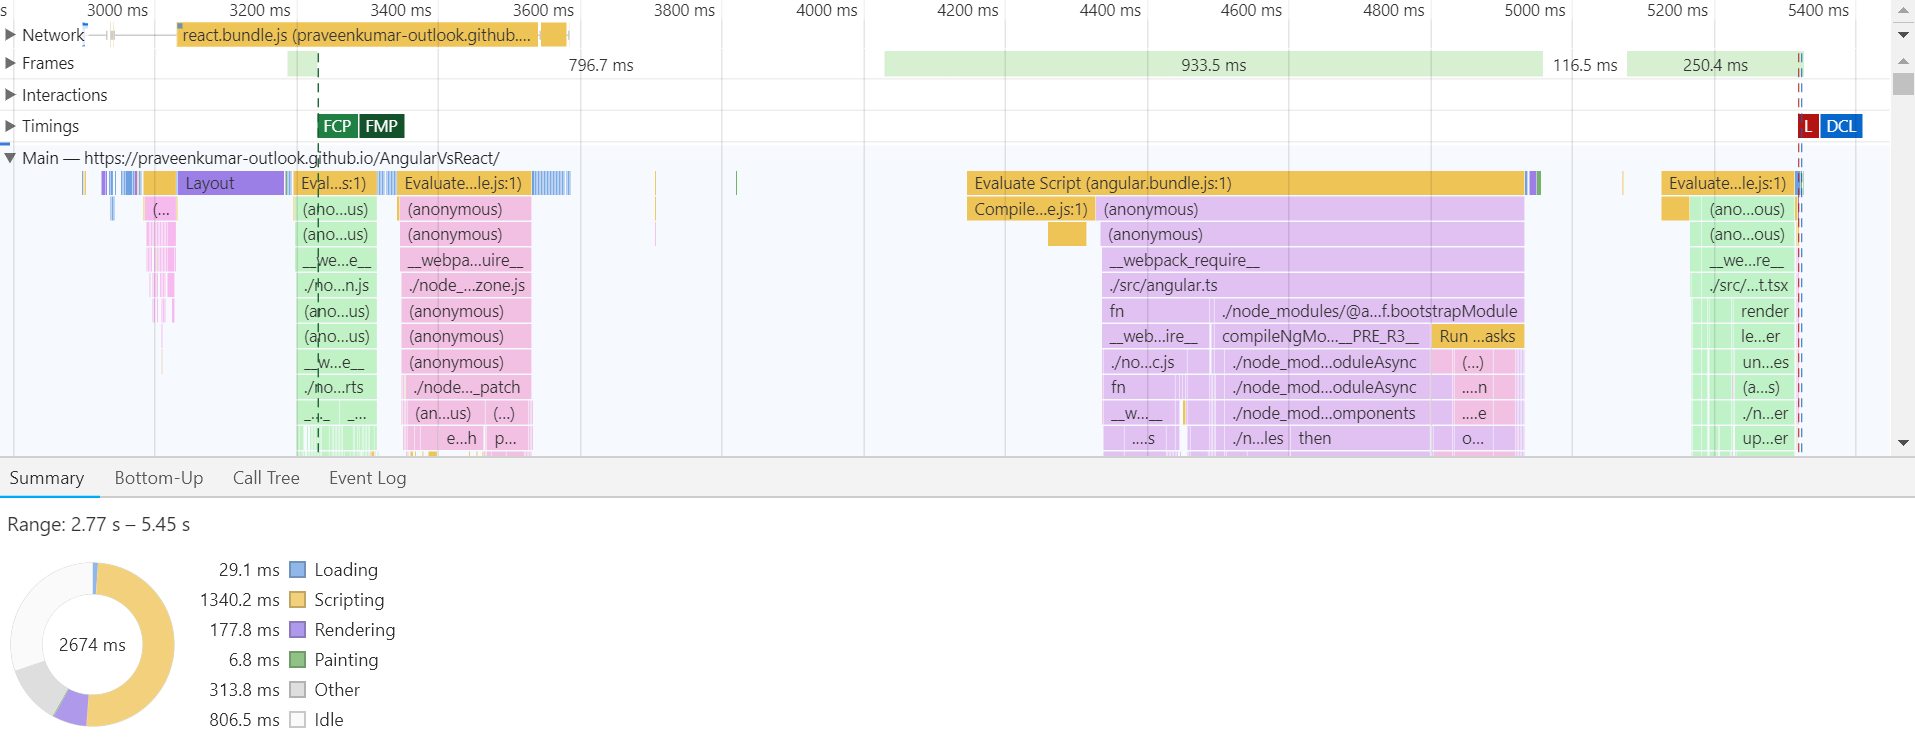
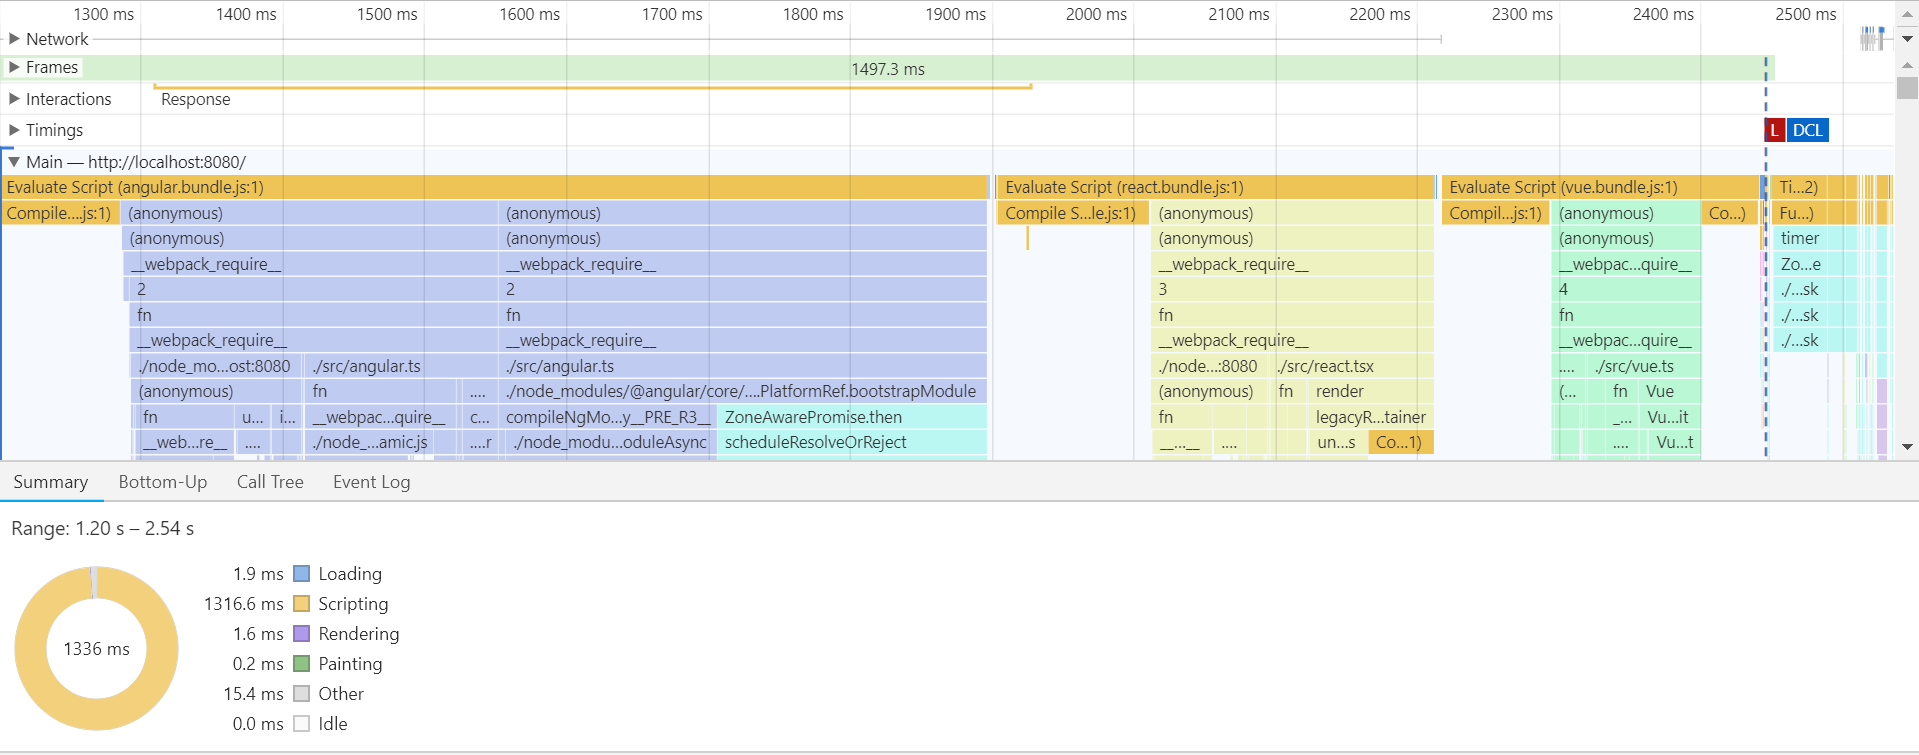
Docs : Vue

diff --git a/README.md b/README.md
@@ -1,5 +1,5 @@
-# AngularVsReact
-Performance Comparison for Angular and React
+# AngularVsReactVsVue
+Performance Comparison for Angular, React and Vue
 
 ## Performance
 - [Comparison](https://github.com/praveenkumar-outlook/AngularVsReact/tree/master/docs/Comparison)
@@ -11,6 +11,7 @@ Performance Comparison for Angular and React
 ## Specifications
  - React 16.x.x
  - Angular 7.x.x
+ - Vue 2.x.x
  - Typescript
 
 # Requirements

diff --git a/docs/Security/README.md b/docs/Security/README.md
@@ -1,6 +1,7 @@
 # Security
-Angular is secure compared to React
+Angular sanitizes threats compared to React and Vue
 
 ## Docs
 ![Angular Docs : XSS Attack](https://angular.io/guide/security#xss)
 ![React Docs : XSS Attack](https://reactjs.org/docs/dom-elements.html#dangerouslysetinnerhtml)
+![Vue Docs : XSS Attack](https://vuejs.org/v2/guide/syntax.html#Raw-HTML)
